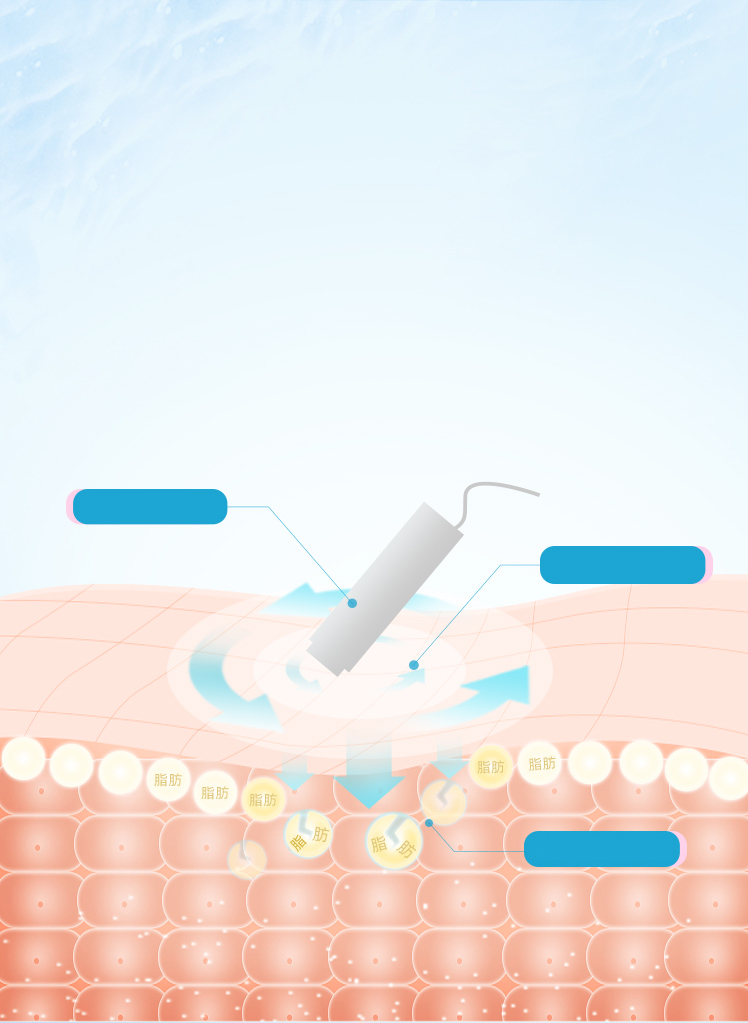
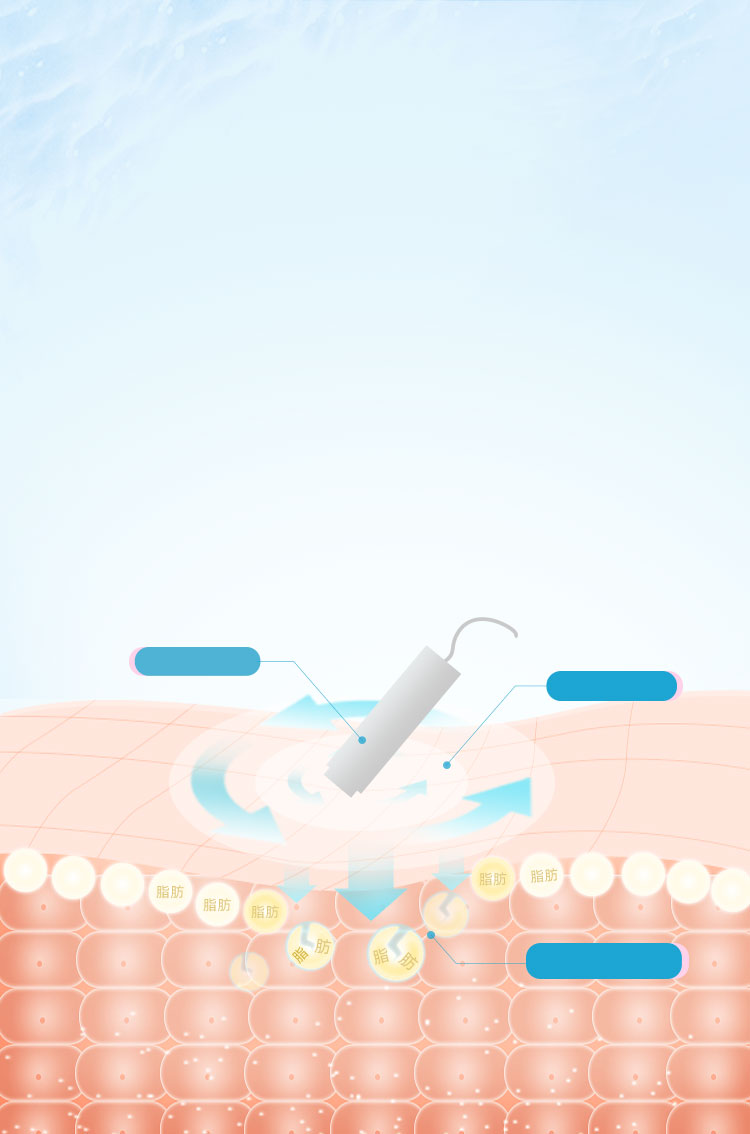
水动力祛脂添加内容
水动力祛脂添加内容

Changed region(s): [[0.0, 0.4545, 1.0, 1.0], [0.0922, 0.4545, 0.3075, 0.5152]]

diff --git a/static.hzshuangmei.com/css/m/sdlqz/sdlqz.css b/static.hzshuangmei.com/css/m/sdlqz/sdlqz.css
@@ -51,18 +51,26 @@ body {
 .box_zx span{font-size: 0.597333rem;color: rgb(37,130,162);font-family: "Alibaba-PuHuiTi-Regular";width: 4.266667rem;display: block;position: absolute;
     left:0;top:0;text-align: center;line-height: 1.28rem;padding-left: 0.106667rem;}
 
-.box2{width: 100%;height: 21.824rem;background: url("//img.hzshuangmei.com/m/sdlqz/box2_bg.jpg") no-repeat center;background-size: 100%;overflow: hidden;margin-top: 1.706667rem;}
+.box2{width: 100%;height: 24.192rem;background: url("//img.hzshuangmei.com/m/sdlqz/box2_bg.jpg") no-repeat center;background-size: 100%;overflow: hidden;margin-top: 1.706667rem;}
 .box2 .box_title img{width: 7.573333rem;height: 2.773333rem;}
-.box2_min1{width: 100%;margin-top: 1.066667rem;}
+.box2_min1{width: 100%;margin-top: 0.6rem;}
 .box2_min1 p{width: 14.037333rem;font-size: 0.469333rem;color: rgb(77,77,77);font-family: "Alibaba-PuHuiTi-Regular";line-height: 0.938667rem;margin: 0 auto;text-align:justify;}
 .box2_min1 p span{color: rgb(29,165,210);}
 .box2_min2{width: 100%;margin-top: 1.493333rem;position: relative;}
 .box2_min2 p{width: 3.306667rem;height: 0.768rem;position: absolute;font-size: 0.512rem;color: rgb(255,255,255);font-family: "Alibaba-PuHuiTi-Regular";line-height: 0.768rem;text-align: center;}
-.box2_min2 p.p1{top:0.053rem;left:1.6rem;}
-.box2_min2 p.p2{top:1.28rem;left:11.690667rem;}
-.box2_min2 p.p3{top:7.38rem;left:11.242667rem;font-size: 0.469333rem;}
+.box2_min2 p.p1{top:0.053rem;left:2.6rem;}
+.box2_min2 p.p2{top: 0.6rem;left: 11.4rem;}
+.box2_min2 p.p3{top:6.45rem;left:11.242667rem;font-size: 0.469333rem;}
 .box2 .box_zx{width: 9.194667rem;height: 3.626667rem;margin-top: 9.5rem;}
 .box2 .box_zx span{left:1.941333rem;top:1.322667rem;}
+
+.box2_ul{ width:600px; overflow: hidden; margin: 0 auto; margin-top: 28px; }
+.box2_ul li{width: 132px; float: left; margin-right: 24px;}
+.box2_ul li:nth-of-type(4){ margin-right: 0px;}
+.box2_ul li img{width: 132px; height: 115px;}
+.box2_ul li p{ width: 100%; background: url("//img.hzshuangmei.com/m/sdlqz/box2_line.png") no-repeat center; text-align: center; font-size: 22px;
+    font-family: "Alibaba-PuHuiTi-Regular"; color: rgb(77,77,77); line-height: 22px;}
+
 
 .box3{width: 100%;height: 25.962667rem;background: url("//img.hzshuangmei.com/m/sdlqz/box3_bg.jpg") no-repeat center;background-size: 100%;overflow: hidden;}
 .box3 .box_title img{width: 9.002667rem;height: 2.816rem;}
